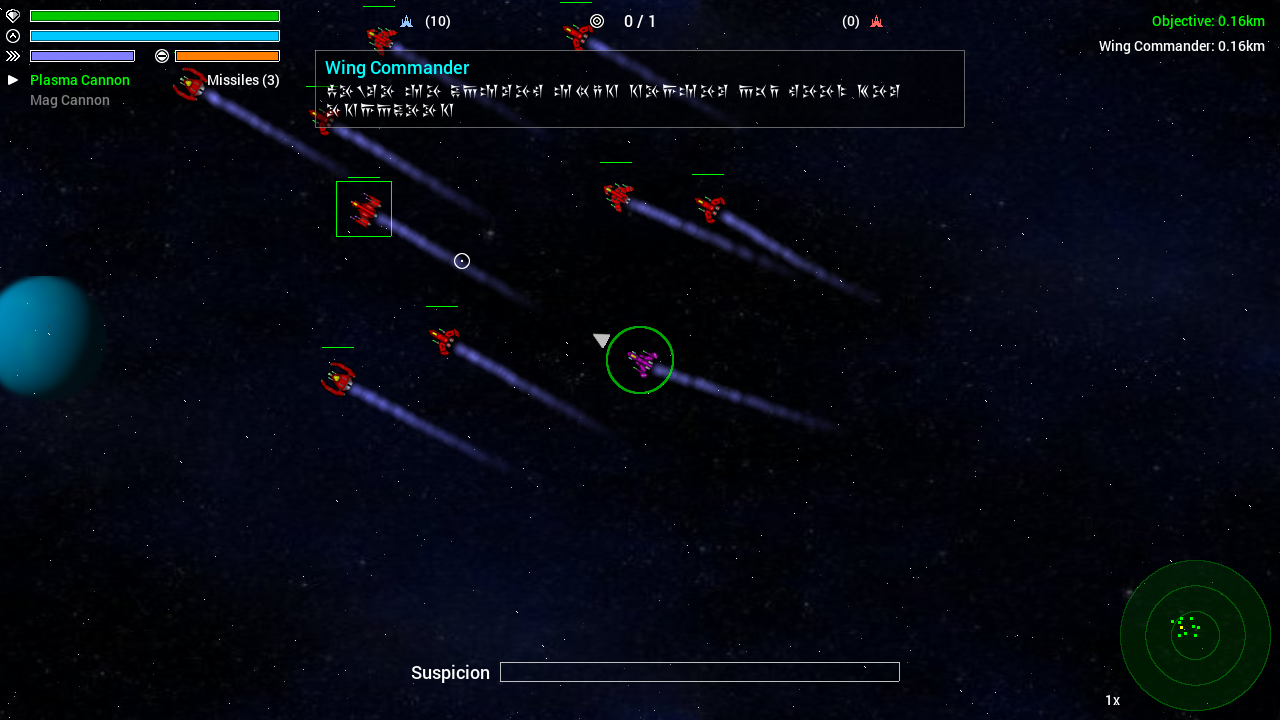
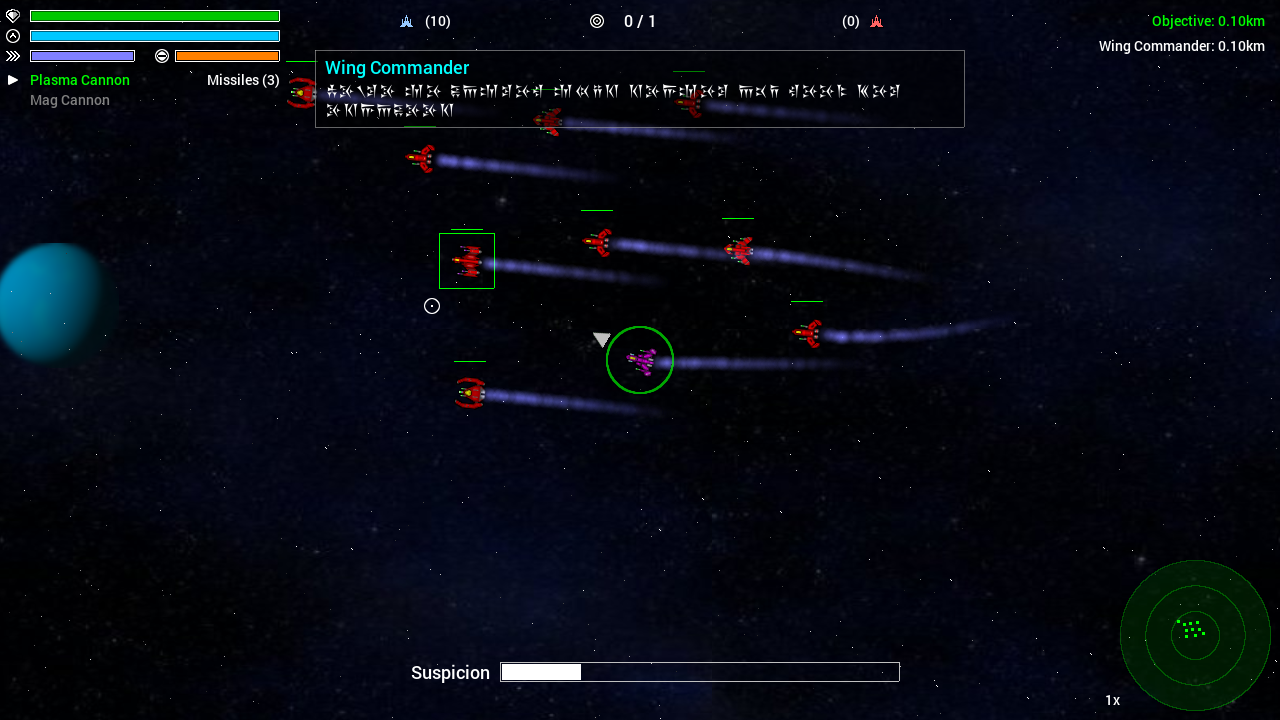
Suspicion related updates.

diff --git a/src/battle/player.c b/src/battle/player.c
@@ -36,6 +36,7 @@ static void preFireMissile(void);
 static void applyRestrictions(void);
 static int isPriorityMissionTarget(Entity *e, int dist, int closest);
 static int targetOutOfRange(void);
+static void setPilotName(void);
 
 static int selectedPlayerIndex;
 static int availableGuns[BT_MAX];
@@ -77,8 +78,8 @@ void initPlayer(void)
 	{
 		player->selectedGunType = 0;
 	}
-
-	STRNCPY(player->name, "Player", MAX_NAME_LENGTH);
+	
+	setPilotName();
 
 	player->action = NULL;
 
@@ -86,6 +87,30 @@ void initPlayer(void)
 	battle.ecmTimer = ECM_RECHARGE_TIME;
 	
 	player->flags |= EF_NO_HEALTH_BAR;
+}
+
+static void setPilotName(void)
+{
+	int i, pos;
+	
+	pos = -1;
+	
+	for (i = 0 ; i < strlen(game.currentMission->pilot) ; i++)
+	{
+		if (game.currentMission->pilot[i] == ' ')
+		{
+			pos = i;
+		}
+	}
+	
+	memset(player->name, '\0', MAX_NAME_LENGTH);
+	
+	if (pos != -1)
+	{
+		memcpy(player->name, game.currentMission->pilot + pos + 1, strlen(game.currentMission->pilot) - pos - 1);
+	}
+	
+	SDL_LogMessage(SDL_LOG_CATEGORY_APPLICATION, SDL_LOG_PRIORITY_INFO, "Pilot name = '%s'", player->name);
 }
 
 void doPlayer(void)

diff --git a/src/battle/hud.c b/src/battle/hud.c
@@ -606,11 +606,11 @@ static void drawSuspicionLevel(void)
 	
 	if (battle.suspicionLevel < (MAX_SUSPICION_LEVEL * 0.5))
 	{
-		SDL_SetRenderDrawColor(app.renderer, 255, 128, 0, 255);
+		SDL_SetRenderDrawColor(app.renderer, 255, 255, 255, 255);
 	}
 	else if (battle.suspicionLevel < (MAX_SUSPICION_LEVEL * 0.75))
 	{
-		SDL_SetRenderDrawColor(app.renderer, 255, 255, 255, 255);
+		SDL_SetRenderDrawColor(app.renderer, 255, 128, 0, 255);
 	}
 	else
 	{

diff --git a/src/battle/ai.c b/src/battle/ai.c
@@ -991,6 +991,8 @@ void checkSuspicionLevel(void)
 			player->side = SIDE_ALLIES;
 			
 			addMessageBox(self->name, "Intruder alert! We have an intruder! All units, target and destroy that fighter!", MB_PANDORAN);
+			
+			addMessageBox(player->name, _("Hell! My cover's been blown, they're on to me!"), MB_IMPORTANT);
 		}
 	}
 }
